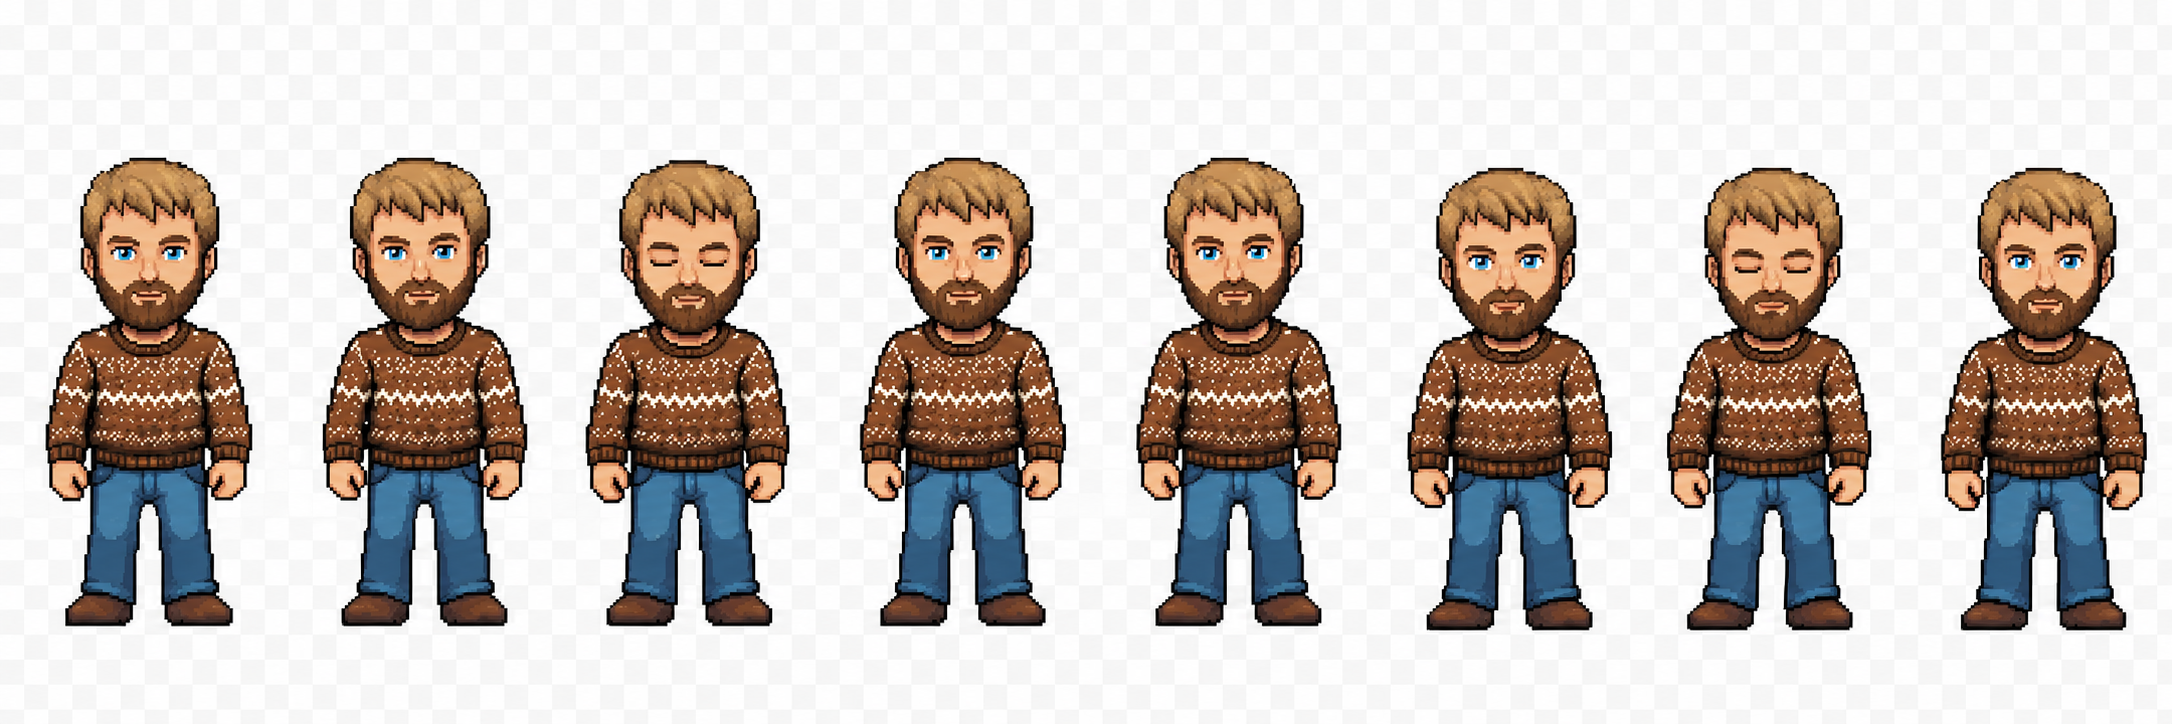
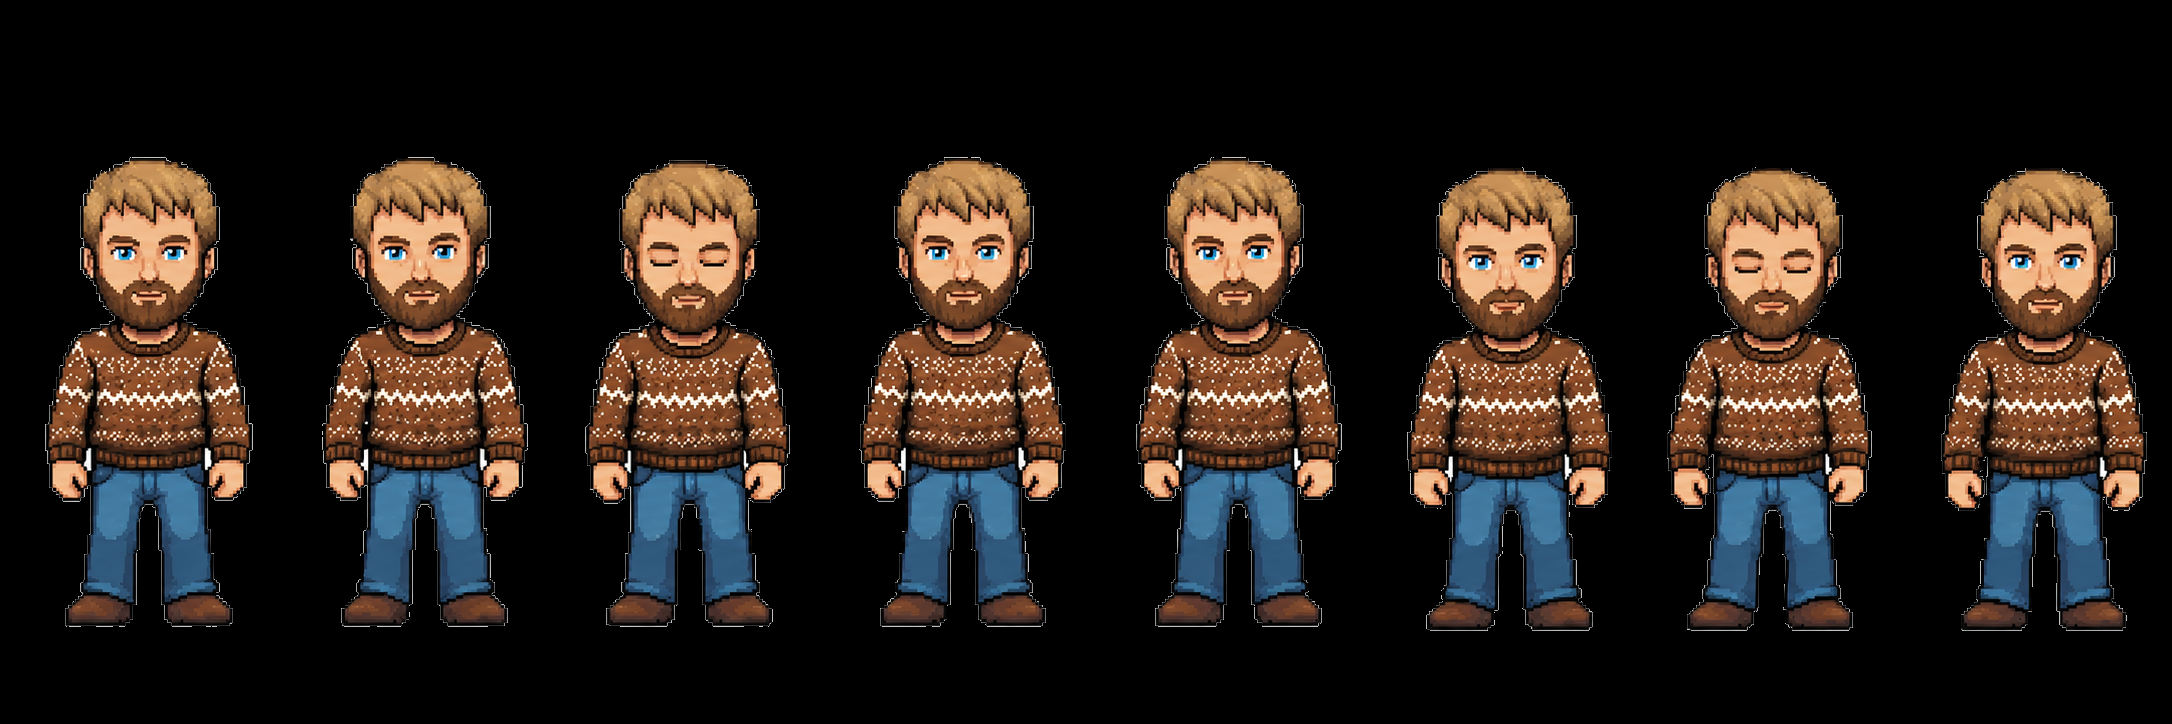
fix: sprite background flood-fill to black, correct fw/fh, dynamic scale for new models

diff --git a/client/src/scenes/CharacterSelectScene.ts b/client/src/scenes/CharacterSelectScene.ts
@@ -122,8 +122,10 @@ export class CharacterSelectScene extends Phaser.Scene {
         .setStrokeStyle(2, toHex(THEME.colors.border))
         .setInteractive({ useHandCursor: true })
 
-      // Individual Sprite
-      const sprite = this.add.sprite(0, -15, ch.asset, 0).setScale(0.25)
+      // Individual Sprite — scale to fixed display height so different fh values fit
+      const TARGET_H = 130
+      const baseScale = TARGET_H / ch.fh
+      const sprite = this.add.sprite(0, -15, ch.asset, 0).setScale(baseScale)
 
       const name = this.add.text(0, 65, ch.name.toUpperCase(), {
         fontFamily: THEME.fonts.body,
@@ -143,8 +145,8 @@ export class CharacterSelectScene extends Phaser.Scene {
       sprite.play(`anim_${ch.id}`)
       this.tweens.add({
         targets: sprite,
-        scaleX: 0.255,
-        scaleY: 0.255,
+        scaleX: baseScale * 1.02,
+        scaleY: baseScale * 1.02,
         duration: 2000 + i * 150,
         yoyo: true,
         repeat: -1,

diff --git a/shared/constants.ts b/shared/constants.ts
@@ -73,9 +73,9 @@ export const CHESS_PIECE_SYMBOLS: Record<string, string> = {
 export const CHESS_TURN_MS = 30_000
 
 export const CHARACTERS = [
-  { id: "lucas", name: "Blonde Podcaster", color: "#ff006e", asset: "blond_podcaster", fw: 342, fh: 574, symbol: "🧶" },
+  { id: "lucas", name: "Blonde Podcaster", color: "#ff006e", asset: "blond_podcaster", fw: 271, fh: 724, symbol: "🧶" },
   { id: "fedor", name: "Geek Streamr", color: "#3a86ff", asset: "geek_streamer", fw: 418, fh: 470, symbol: "🧠" },
-  { id: "christian", name: "Bearded Gamer", color: "#8338ec", asset: "bearded_gamer", fw: 350, fh: 561, symbol: "🧔" },
+  { id: "christian", name: "Bearded Gamer", color: "#8338ec", asset: "bearded_gamer", fw: 271, fh: 724, symbol: "🧔" },
   { id: "dodo", name: "Lockiger zuschauer", color: "#ffffff", asset: "lockiger_zuschauer", fw: 384, fh: 512, symbol: "⚡" },
   { id: "grhost", name: "Grinsender CO-Host", color: "#00f5d4", asset: "grinsender_co_host", fw: 418, fh: 470, symbol: "🎧" },
   { id: "robin", name: "Robin Reinhardt", color: "#ffbe0b", asset: "robin", fw: 418, fh: 470, symbol: "🏹" },